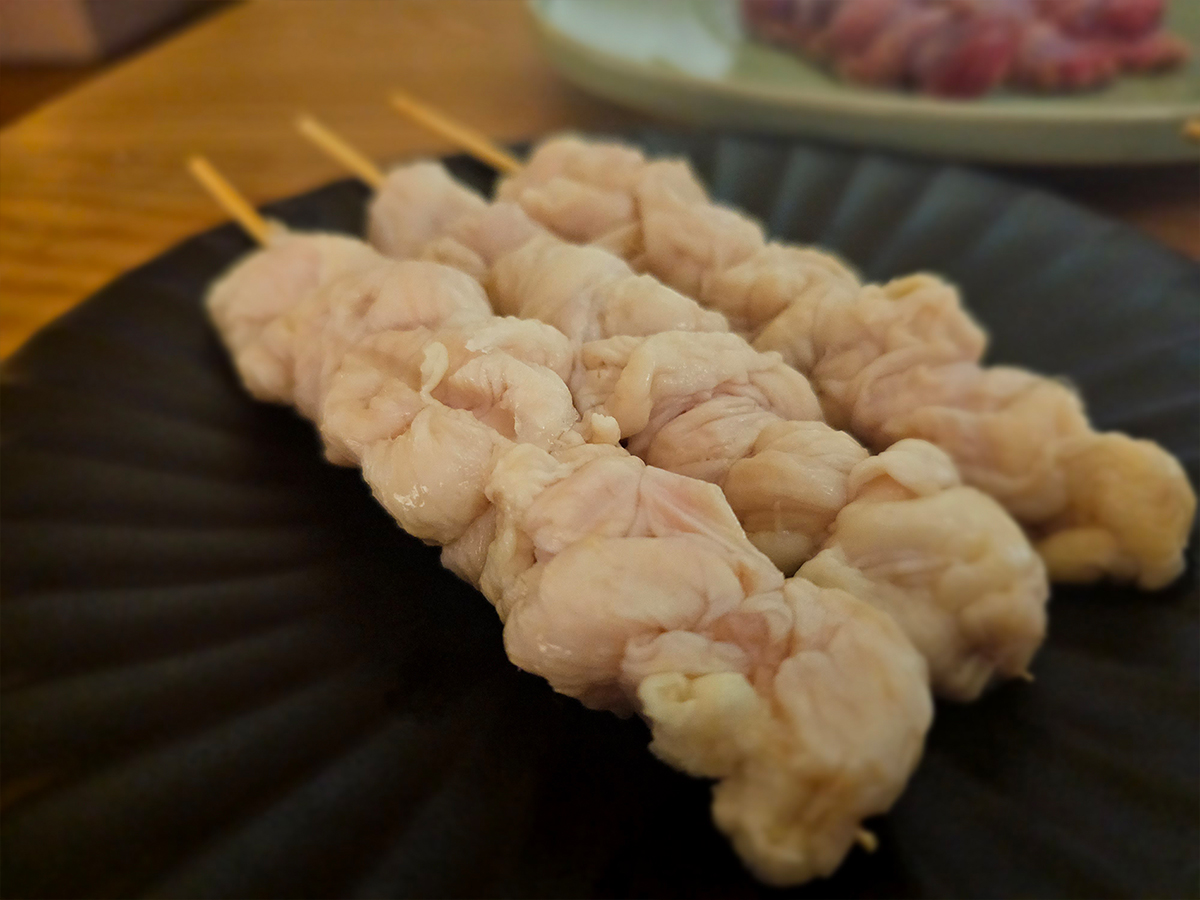
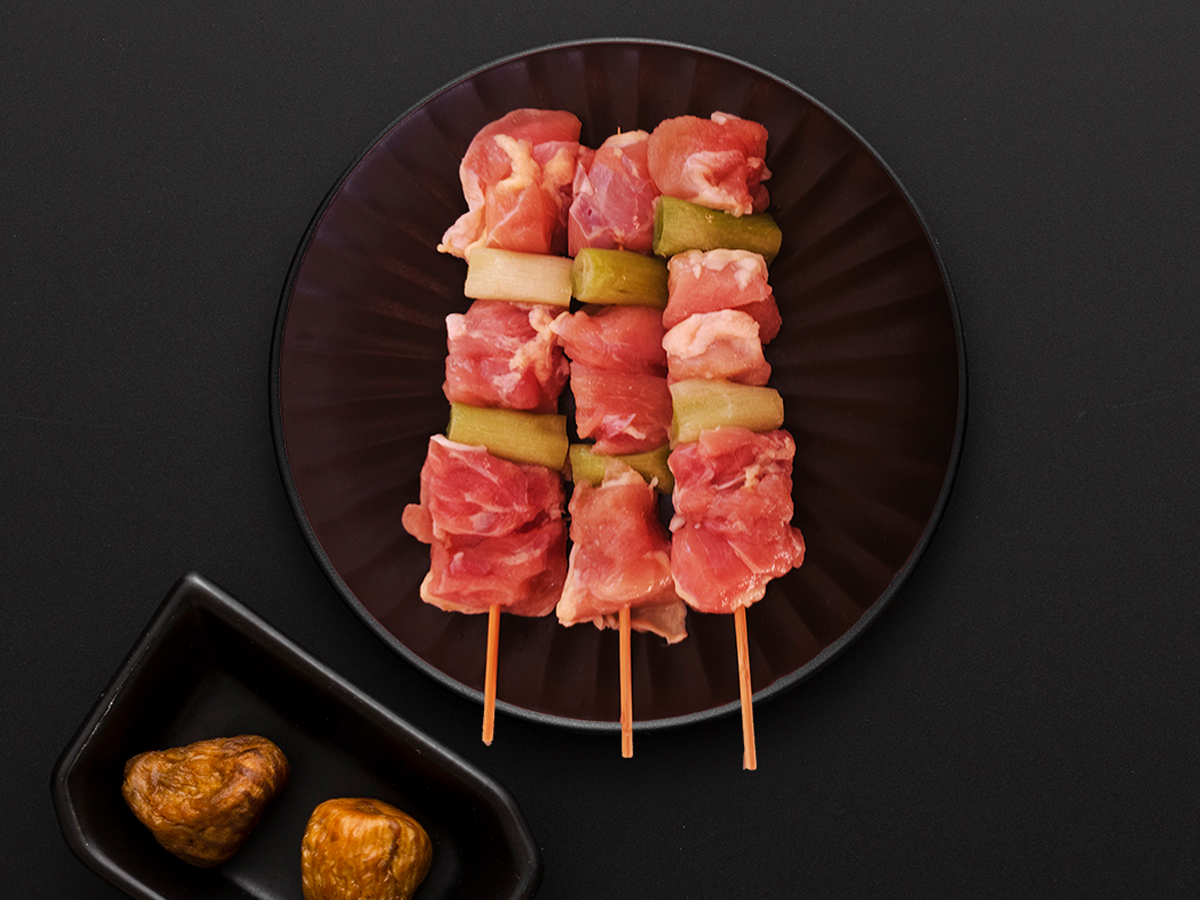
Remove duplicate product section and update product images

diff --git a/app/_sections/ProductSection.tsx b/app/_sections/ProductSection.tsx
@@ -3,17 +3,59 @@
 import { useEffect, useState } from "react";
 
 const PRODUCT_IMAGES = [
-  { src: "/images/productsection/product-01.jpg", alt: "왕순살왕파닭", label: "왕순살꼬치" },
-  { src: "/images/productsection/product-02.jpg", alt: "일본식순살파닭", label: "일본식파닭" },
-  { src: "/images/productsection/product-03.jpg", alt: "염통꼬치", label: "염통꼬치" },
-  { src: "/images/productsection/product-04.jpg", alt: "닭껍질꼬치", label: "닭껍질꼬치" },
+  {
+    src: "/images/productsection/product-01.jpg",
+    alt: "왕순살왕파닭",
+    label: "왕순살꼬치 110g / 1,050원",
+    description: "1봉 15개 (10봉입) / 1박스 150개",
+  },
+  {
+    src: "/images/productsection/product-02.jpg",
+    alt: "왕파닭꼬치",
+    label: "왕파닭꼬치 110g / 1,150원",
+    description: "1봉 15개 (8 봉입)  / 1박스 120개",
+  },
+  {
+    src: "/images/productsection/product-03.jpg",
+    alt: "일본식순살꼬치",
+    label: "일본식순살 50g / 700원",
+    description: "1봉 15개 (10봉입) / 1박스 150개",
+  },
+  {
+    src: "/images/productsection/product-04.jpg",
+    alt: "일본식파닭꼬치",
+    label: "일본식파닭 50g / 750원",
+    description: "1봉 15개 (8 봉입)  / 1박스 120개",
+  },
+  {
+    src: "/images/productsection/product-05.jpg",
+    alt: "무릎연골꼬치",
+    label: "무릎연골꼬치 40g / 800원",
+    description: "1봉 20개 (10봉입)  / 1박스 200개",
+  },
+  {
+    src: "/images/productsection/product-06.jpg",
+    alt: "닭껍질꼬치",
+    label: "닭껍질꼬치 40g / 650원",
+    description: "1봉 20개 (10봉입)  / 1박스 200개",
+  },
+  {
+    src: "/images/productsection/product-07.jpg",
+    alt: "염통꼬치",
+    label: "염통꼬치 40g / 800원",
+    description: "1봉 40개 (6 봉입)  / 1박스 240개",
+  },
+  {
+    src: "/images/productsection/product-08.jpg",
+    alt: "HACCP인증시설",
+    label: "HACCP 인증공장",
+    description: "안심하고 구매하세요",
+  },
 ] as const;
 
 export default function ProductSection() {
-  // ✅ 추가: 클릭한 이미지 확대(라이트박스)
   const [openImage, setOpenImage] = useState<string | null>(null);
 
-  // ✅ 추가: ESC로 닫기 + 열려있을 때 배경 스크롤 방지
   useEffect(() => {
     if (!openImage) return;
 
@@ -74,17 +116,16 @@ export default function ProductSection() {
       </div>
 
       <ul className="mt-4 grid gap-2 text-sm text-gray-800 md:grid-cols-2">
-        <li>• 왕순살 150개 / 왕파닭 120개 / 110g*25cm </li>
-        <li>• 일본식순살 150개 / 일본식파닭 120개</li>
-        <li>• 이자까야용 / 50g*18cm </li>
-        <li>• 염통 240개 / 껍질 200개 / 35g~40g*18cm</li>
+        <li>• 왕순살/파닭꼬치(닭다리살) 110g*25cm </li>
+        <li>• 일본식순살/파닭(닭다리살) 50g*18cm</li>
+        <li>• 무릎연골꼬치 40g*18cm </li>
+        <li>• 염통꼬치 / 닭껍질꼬치 40g*18cm</li>
       </ul>
 
       <p className="mt-3 text-sm text-gray-600">
         ※ 전 제품 <b>박스 단위 · B2B 납품 전용 </b>
       </p>
 
-      {/* ✅ 이미지 4장 */}
       <div className="ss-product-grid mt-4">
         {PRODUCT_IMAGES.map((img) => (
           <div
@@ -96,13 +137,19 @@ export default function ProductSection() {
                 src={img.src}
                 alt={img.alt}
                 loading="lazy"
-                onClick={() => setOpenImage(img.src)} // ✅ 클릭 시 확대
+                onClick={() => setOpenImage(img.src)}
                 className="absolute inset-0 h-full w-full cursor-zoom-in object-cover object-center"
               />
               <div className="pointer-events-none absolute inset-x-0 bottom-0 h-16 bg-gradient-to-t from-black/55 to-transparent" />
               <div className="absolute bottom-2 right-2 z-10 rounded-md bg-black/35 px-2 py-1 text-xs font-bold text-white backdrop-blur-sm md:bottom-3 md:right-3 md:text-sm">
                 {img.label}
               </div>
+            </div>
+
+            <div className="px-3 py-3">
+              <p className="text-sm leading-relaxed text-gray-700">
+                {img.description}
+              </p>
             </div>
           </div>
         ))}
@@ -113,18 +160,15 @@ export default function ProductSection() {
         aria-hidden
       />
 
-      {/* ✅ 추가: 라이트박스(뉴스처럼 크게 보기) + 닫기 버튼 */}
       {openImage && (
         <div
           className="fixed inset-0 z-50 flex items-center justify-center bg-black/80 p-4"
-          onClick={() => setOpenImage(null)} // ✅ 배경 클릭하면 닫힘
+          onClick={() => setOpenImage(null)}
           role="dialog"
           aria-modal="true"
           aria-label="이미지 확대 보기"
         >
-          {/* ✅ 중앙 컨테이너 (닫기 버튼 포함) */}
           <div className="relative" onClick={(e) => e.stopPropagation()}>
-            {/* ✅ 닫기 버튼 (우상단 X) */}
             <button
               type="button"
               onClick={() => setOpenImage(null)}
@@ -134,14 +178,12 @@ export default function ProductSection() {
               <span className="text-xl leading-none">×</span>
             </button>
 
-            {/* ✅ 확대 이미지 */}
             <img
               src={openImage}
               alt="확대 이미지"
               className="max-h-[90vh] max-w-[90vw] rounded-lg object-contain shadow-2xl"
             />
 
-            {/* ✅ 안내 문구 */}
             <div className="mt-3 text-center text-xs text-white/80">
               배경을 누르거나 <b>ESC</b> 또는 <b>×</b>로 닫을 수 있어요.
             </div>

diff --git a/app/_sections/HomeClient.tsx b/app/_sections/HomeClient.tsx
@@ -1,10 +1,10 @@
-// app/_sections/HomeClient.tsx
 "use client";
 
 import Hero from "../_components/Hero";
 import Footer from "../_components/Footer";
 import BodyCardsSection from "./BodyCardsSection";
 import RecentLeadsSection from "./RecentLeadsSection";
+import InstagramSection from "./InstagramSection";
 
 const KAKAO_CHAT_URL = "http://pf.kakao.com/_TWfbG";
 const CALL_PHONE = "051-714-3396";
@@ -44,24 +44,19 @@ export default function HomeClient({
         id="sms-lead"
         className="mx-auto w-full max-w-6xl px-4 pb-24 md:px-8"
       >
-        {/* ✅ 애니메이션(transition/hover) 제거: 기존 디자인은 유지 */}
         <div className="group rounded-2xl border border-gray-800 bg-gradient-to-br from-gray-900 to-gray-800 p-5 text-white shadow-lg md:p-7">
-          {/* 헤더 */}
           <div className="mb-4 flex items-center justify-between">
             <div>
               <div className="inline-flex items-center gap-2 rounded-full bg-green-500/15 px-3 py-1 text-xs font-semibold text-green-400">
                 <span aria-hidden>💬</span>
                 <span>즉시 접수</span>
               </div>
-              <h2 className="mt-3 text-lg font-bold md:text-xl">
-                문자 상담 요청
-              </h2>
+              <h2 className="mt-3 text-lg font-bold md:text-xl">문자 상담 요청</h2>
               <p className="mt-1 text-sm text-gray-300">
                 작성 즉시 담당자 휴대폰으로 문자 접수됩니다
               </p>
             </div>
 
-            {/* ✅ 애니메이션(transition/group-hover scale) 제거 */}
             <div
               className="flex h-10 w-10 items-center justify-center rounded-2xl bg-green-500 text-white shadow-sm"
               aria-hidden
@@ -114,8 +109,6 @@ export default function HomeClient({
               개인정보 수집·이용에 동의합니다
             </label>
 
-            {/* 버튼은 hover가 시각 피드백이라 유지(색 변화/active scale 없음). 
-                원하면 이것도 완전 고정으로 바꿔줄게 */}
             <button
               type="submit"
               className="mt-2 inline-flex items-center justify-center rounded-xl bg-green-500 px-4 py-3 text-sm font-semibold text-gray-900 shadow-md"
@@ -123,12 +116,13 @@ export default function HomeClient({
               문자로 접수하기
             </button>
 
-            <p className="text-xs text-gray-400">
-              * 과도한 반복 접수는 제한될 수 있습니다.
-            </p>
+            <p className="text-xs text-gray-400">* 과도한 반복 접수는 제한될 수 있습니다.</p>
           </form>
         </div>
       </section>
+
+      {/* ✅ 문자상담요청 폼 “바로 밑” 새 섹션 */}
+      <InstagramSection />
 
       <Footer />
     </main>

diff --git a/app/_sections/ProcessSection.tsx b/app/_sections/ProcessSection.tsx
@@ -1,4 +1,3 @@
-// app/_sections/ProcessSection.tsx
 "use client";
 
 export default function ProcessSection() {
@@ -10,13 +9,7 @@ export default function ProcessSection() {
             <span aria-hidden>🧾</span>
             <span>진행 절차</span>
           </div>
-          <h2 className="mt-3 text-lg font-bold md:text-xl">
-           최저가 납품 진행 절차 안내
-          </h2>
-          <p className="mt-1 text-sm text-gray-600">
-            공장직영 구조로 <span className="font-semibold text-gray-800">국내 최저가 수준</span>을
-            지향하며, 매장 기준에 맞춰 안내드립니다.
-          </p>
+          <h2 className="mt-3 text-lg font-bold md:text-xl">주문 진행 순서</h2>
         </div>
 
         <div
@@ -27,22 +20,16 @@ export default function ProcessSection() {
         </div>
       </div>
 
-      {/* 텍스트 절차 안내 */}
+      {/* ✅ 이미지 제거, 텍스트 안내만 */}
       <ol className="mt-4 grid gap-2 text-sm text-gray-800 md:grid-cols-2">
-        <li>1⃣ 상담 요청 (매장 형태 · 지역 · 예상 물량 확인)</li>
-        <li>
-          2⃣ 조건 안내 (
-          <span className="font-medium text-gray-900">
-            국내 최저가 수준 단가
-          </span>
-          · 최소수량 · 납품 방식)
-        </li>
-        <li>3⃣ 샘플 테스트 (해당 시, 상담 후 가능 여부 안내)</li>
-        <li>4⃣ 거래 진행 (출고 · 배송 / 정기·단발 납품)</li>
+        <li>1⃣ 문의 접수 / 담당자상담</li>
+        <li>2⃣ 발주GO 계정 발급</li>
+        <li>3⃣ 충전 후 주문</li>
+        <li>4⃣ 출고 · 배송</li>
       </ol>
 
       <p className="mt-3 text-sm text-gray-600">
-        ※ 업소 운영 고객 대상 안내이며, 물량·지역·계약 조건에 따라 단가가 달라질 수 있습니다.
+        ※ 첫 거래 시 담당자가 직접 안내드립니다.
       </p>
 
       <div

diff --git a/app/_sections/BodyCardsSection.tsx b/app/_sections/BodyCardsSection.tsx
@@ -5,9 +5,10 @@ import { useMemo } from "react";
 import FitForSection from "./FitForSection";
 import WhySection from "./WhySection";
 import ProductSection from "./ProductSection";
+import ProcessSection from "./ProcessSection";
 import OrderGoSection from "./OrderGoSection";
 import MarketingSection from "./MarketingSection";
-import ProcessSection from "./ProcessSection";
+
 
 export default function BodyCardsSection() {
   const items = useMemo(
@@ -15,12 +16,13 @@ export default function BodyCardsSection() {
       { key: "fit", node: <FitForSection /> },
       { key: "why", node: <WhySection /> },
       { key: "product", node: <ProductSection /> },
+      { key: "process", node: <ProcessSection /> },
       { key: "ordergo", node: <OrderGoSection /> },
 
       // ✅ 추가: “주문 진행 순서” 위에 마케팅 섹션
       { key: "marketing", node: <MarketingSection /> },
 
-      { key: "process", node: <ProcessSection /> },
+      
     ],
     []
   );
